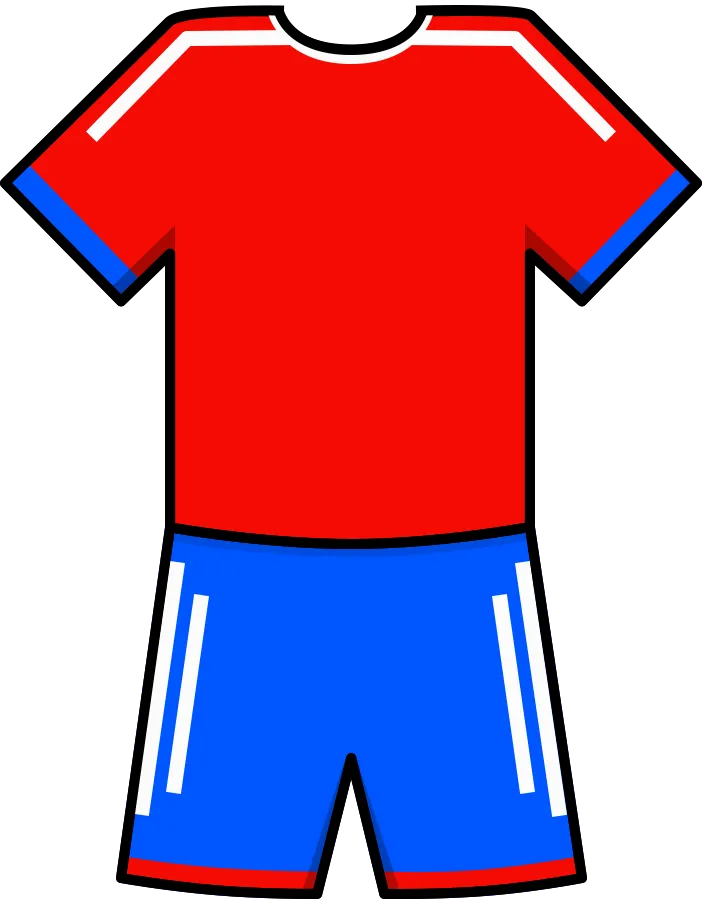
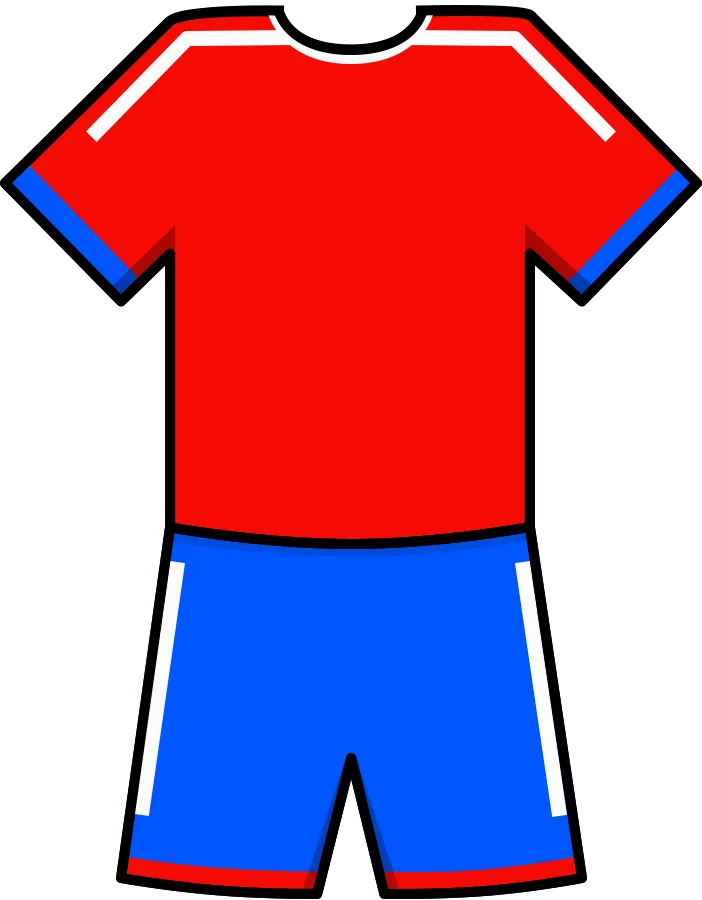
New BR, JP,CL kits

Changed region(s): [[0.688, 0.6533, 0.7778, 0.9022], [0.2393, 0.6533, 0.2991, 0.9022]]

diff --git a/ToDo.md b/ToDo.md
@@ -1,77 +1,206 @@
-Задача: доработать визуал футбольного поля на экране матча.
+Task: Split Tournament Hub Next Match flow into Advance To Next Match and Play Next Match
 
-Контекст
-Сейчас уже добавлены:
-- внешний газон вокруг основного поля;
-- ворота за линиями ворот;
-- угловые дуги.
+Context
+Project: Total Soccer: Mundial.
+Work in main.
 
-Но текущий результат нужно доработать визуально.
+Area:
+Tournament mode:
+- Tournament Hub footer
+- match progression flow
+- AI-only auto simulation
+- human-relevant match launch
+- Finish tournament state
 
-Что нужно изменить
+Important:
+Do not commit.
+Do not edit ToDo.md.
+Report in Ukrainian.
 
-1. Ворота
-- Стойки ворот и перекладина должны быть визуально толще, чем линии сетки.
-- Сейчас сетка и каркас выглядят почти одинаково по толщине — это нужно исправить.
-- Каркас ворот должен читаться как основная конструкция.
-- Сетка должна оставаться более тонкой и второстепенной.
+Current behavior
+Tournament Hub has a "Next Match" button.
+It currently:
+- auto-simulates AI-only matches before the next human-relevant match;
+- then immediately launches the next human-relevant match.
 
-2. Сетка ворот
-- Сделать сетку более густой.
-- Плетение сетки должно быть квадратным, а не прямоугольным.
-- То есть шаг по горизонтали и вертикали должен быть одинаковым или максимально близким, чтобы ячейки выглядели квадратными.
-- Сетка должна оставаться легкой и не слишком яркой, чтобы не перетягивать внимание с карт.
+New behavior
+Split this into two separate steps/buttons:
 
-3. Внешний газон вокруг поля
-- Газон за пределами основного поля должен быть полосатым, как и сам газон внутри поля.
-- Важно: полосы внешнего газона должны визуально продолжать стиль основного поля.
-- Не делать внешний газон однотонным.
+1. "Advance to next match"
+   - visible/active when there is at least one AI-only unplayed match before the next human-relevant match.
+   - clicking it simulates those AI-only matches only.
+   - after that it stays in Tournament Hub.
+   - after that, this button becomes inactive/hidden because the next scheduled unplayed match is now human-relevant.
 
-4. Порядок слоев
-- Внешний газон должен находиться под всеми UI-элементами.
-- Сейчас он местами рисуется поверх табло, кнопок, колод и других элементов — это нужно исправить.
-- Нужно, чтобы:
-  - внешний газон был фоновым слоем;
-  - поверх него были UI-панели, кнопки, табло, колоды, карточки статистики и прочие интерфейсные элементы.
-- При этом сам основной матчевый field-area должен остаться визуально корректным.
+2. "Play next match"
+   - renamed from current "Next Match".
+   - active only when the next scheduled unplayed match is human-relevant and there are no AI-only matches before it.
+   - clicking it starts that human-relevant match normally.
 
-5. Угловые дуги
-- Уменьшить размер угловых дуг.
-- Сейчас они слишком крупные.
-- Сделать их аккуратнее и ближе к классической разметке футбольного поля.
+Terminology / labels
+Use English UI labels unless the project already has localization:
+- Advance to next match
+- Play next match
+- Finish tournament
 
-Технические требования
-- Менять только визуал поля.
-- Не менять игровую логику.
-- Не менять размеры и позиции карт, колод, табло, кнопок, интерактивных зон.
-- Не ломать tutorial, AI, quick match, tournament.
-- Сохранить текущую структуру FieldView, если это возможно, но при необходимости можно аккуратно реорганизовать код отрисовки слоев.
+Definitions
+- Human-relevant match: an unplayed match where at least one team is not AI-controlled.
+- AI-only match: an unplayed match where both teams are AI-controlled.
+- Next scheduled unplayed match: first unplayed match in tournament schedule order.
 
-Что проверить после изменений
-1. Quick Match:
-- внешний газон полосатый;
-- UI не перекрывается внешним газоном;
-- ворота читаются лучше;
-- сетка более густая и квадратная;
-- угловые дуги меньше.
+Detailed requirements
 
-2. Tutorial Match:
-- поле отображается корректно;
-- overlay туториала, табло и кнопки не конфликтуют с новым фоном.
+============================================================
+PART 1 — Footer button state machine
+============================================================
 
-3. Визуальная иерархия:
-- каркас ворот толще сетки;
-- сетка не отвлекает от карт;
-- внешний газон визуально поддерживает поле, но не мешает интерфейсу.
+The Tournament Hub footer should choose the correct primary progression action based on schedule state.
 
-Тесты
-- Обновить тесты, если они проверяют структуру/наличие элементов FieldView.
-- Прогнать:
-  - npm test
-  - npm run build
+State A: next scheduled unplayed match is human-relevant
+- Show/enable: Play next match
+- Hide/disable: Advance to next match
+- Hide/disable: Finish tournament
+- Clicking Play next match starts that match.
 
-В ответе прошу указать:
-- какие файлы изменены;
-- как именно изменены ворота, сетка, внешний газон и угловые дуги;
-- подтверждение, что логика игры не затронута;
-- результаты npm test и npm run build.
+State B: there are AI-only unplayed matches before the next human-relevant match
+- Show/enable: Advance to next match
+- Hide/disable or disable: Play next match
+- Hide/disable: Finish tournament
+- Clicking Advance to next match simulates only the AI-only matches before the next human-relevant match.
+- It must not start the human-relevant match.
+- It must remain in Tournament Hub after simulation.
+- After the click completes, the footer state should update to State A.
+
+State C: no future human-relevant matches remain, but tournament has unplayed matches
+- Show/enable: Finish tournament
+- Hide/disable: Advance to next match
+- Hide/disable: Play next match
+- Clicking Finish tournament simulates all remaining matches and opens TournamentCompleteScene.
+
+State D: tournament complete
+- TournamentCompleteScene behavior remains unchanged.
+
+============================================================
+PART 2 — Advance to next match behavior
+============================================================
+
+When pressing Advance to next match:
+1. Find the next future human-relevant match.
+2. Simulate every unplayed AI-only match before it in schedule order.
+3. Do not simulate the human-relevant match itself.
+4. Stay in Tournament Hub.
+5. Update and save:
+   - match cards
+   - group standings
+   - playoff seeding/bracket if affected
+   - tournament progress counter
+   - tournament stats
+   - footer button state
+6. If the simulation of AI-only matches causes playoff bracket updates that reveal the next human-relevant match, state should refresh correctly.
+
+Important edge cases:
+- If no human-relevant match exists, Advance to next match should not be shown. Use Finish tournament instead.
+- If the next scheduled match is already human-relevant, Advance to next match should not be shown.
+
+============================================================
+PART 3 — Play next match behavior
+============================================================
+
+When pressing Play next match:
+1. Check the next scheduled unplayed match.
+2. It must be human-relevant.
+3. Start/open this match through the normal playable tournament match flow.
+4. Do not auto-simulate anything in this button.
+5. If the next scheduled match is AI-only, Play next match must be disabled/hidden and Advance to next match should be available instead.
+
+============================================================
+PART 4 — Finish tournament behavior
+============================================================
+
+Keep current Finish tournament behavior:
+- shown when no human-relevant future match remains;
+- simulates all remaining matches in order;
+- opens TournamentCompleteScene after final.
+
+Make sure the new split flow does not regress this behavior.
+
+============================================================
+PART 5 — Remove old Next Match label
+============================================================
+
+The old label "Next Match" should no longer appear in Tournament Hub footer.
+Use:
+- Advance to next match
+- Play next match
+- Finish tournament
+
+============================================================
+PART 6 — Preserve existing decisions
+============================================================
+
+Do not restore Sim / Play buttons on match cards.
+Do not change:
+- Matches tab card visuals except if tests need button absence adjusted
+- group-stage calendar order
+- tournament stats aggregation
+- simulated assists/saves consistency
+- TournamentCompleteScene visual layout
+- Tournament Setup
+- Playoff geometry
+- Stats layout
+- save format unless strictly necessary
+- ToDo.md
+
+============================================================
+PART 7 — Tests
+============================================================
+
+Add/update tests for:
+
+1. If AI-only matches exist before the next human-relevant match:
+   - footer shows Advance to next match
+   - footer does not show Play next match as active
+   - old Next Match label is not shown
+
+2. Pressing Advance to next match:
+   - simulates all preceding AI-only matches
+   - does not launch the human-relevant match
+   - does not open GameScene
+   - remains in Tournament Hub
+   - updates match results/cards/progress/stats/save
+   - after completion, footer switches to Play next match
+
+3. If the next scheduled unplayed match is human-relevant:
+   - footer shows Play next match
+   - Advance to next match is not active
+   - pressing Play next match launches the match
+
+4. If no future human-relevant matches remain:
+   - footer shows Finish tournament
+   - Advance to next match is not shown
+   - Play next match is not shown
+
+5. Finish tournament:
+   - still simulates remaining matches
+   - still opens TournamentCompleteScene
+
+6. Regression:
+   - no Sim / Play buttons are rendered on match cards
+   - group-stage calendar order remains matchday-based
+   - simulated AI-only stats still include goals/assists/saves
+   - Cup M / Cup L / Cup XL behave correctly
+
+Validation:
+Run:
+npm test
+npm run build
+git diff --check
+
+Final report in Ukrainian:
+1. changed files
+2. how footer state machine works
+3. how Advance to next match works
+4. how Play next match works
+5. how Finish tournament remains unchanged
+6. test/build/diff-check results
+7. confirm no commit was made
